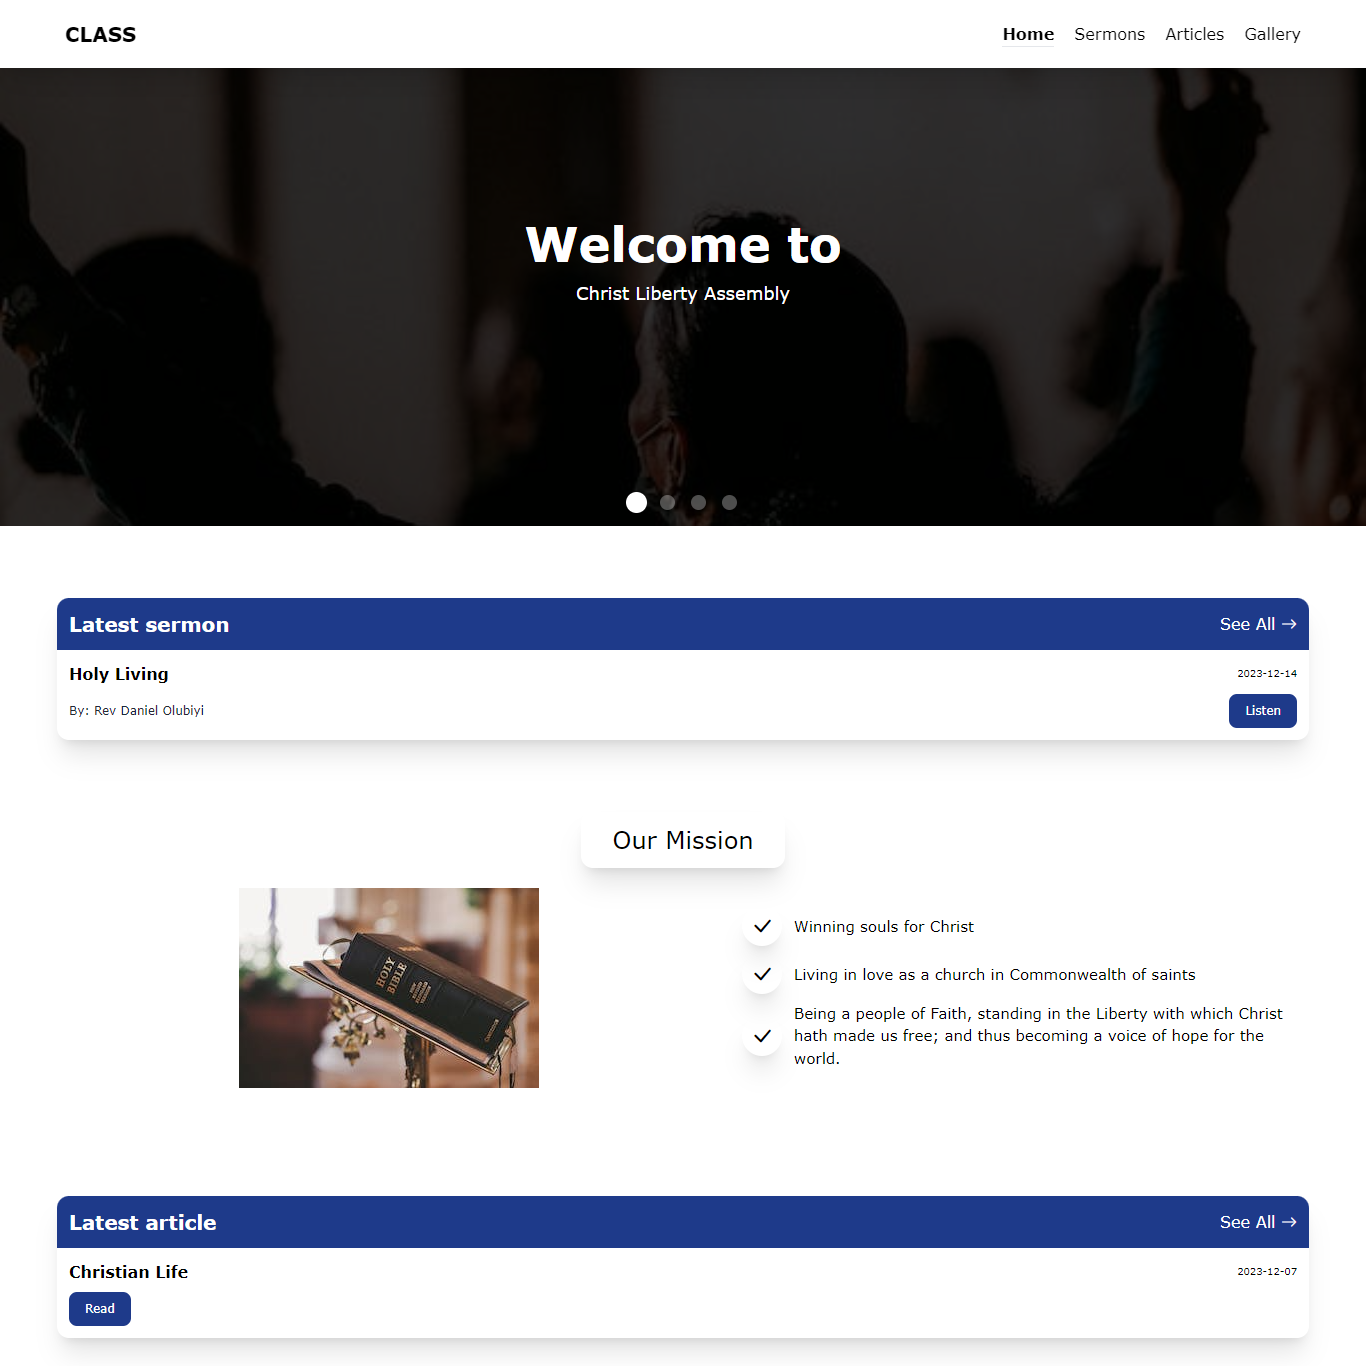
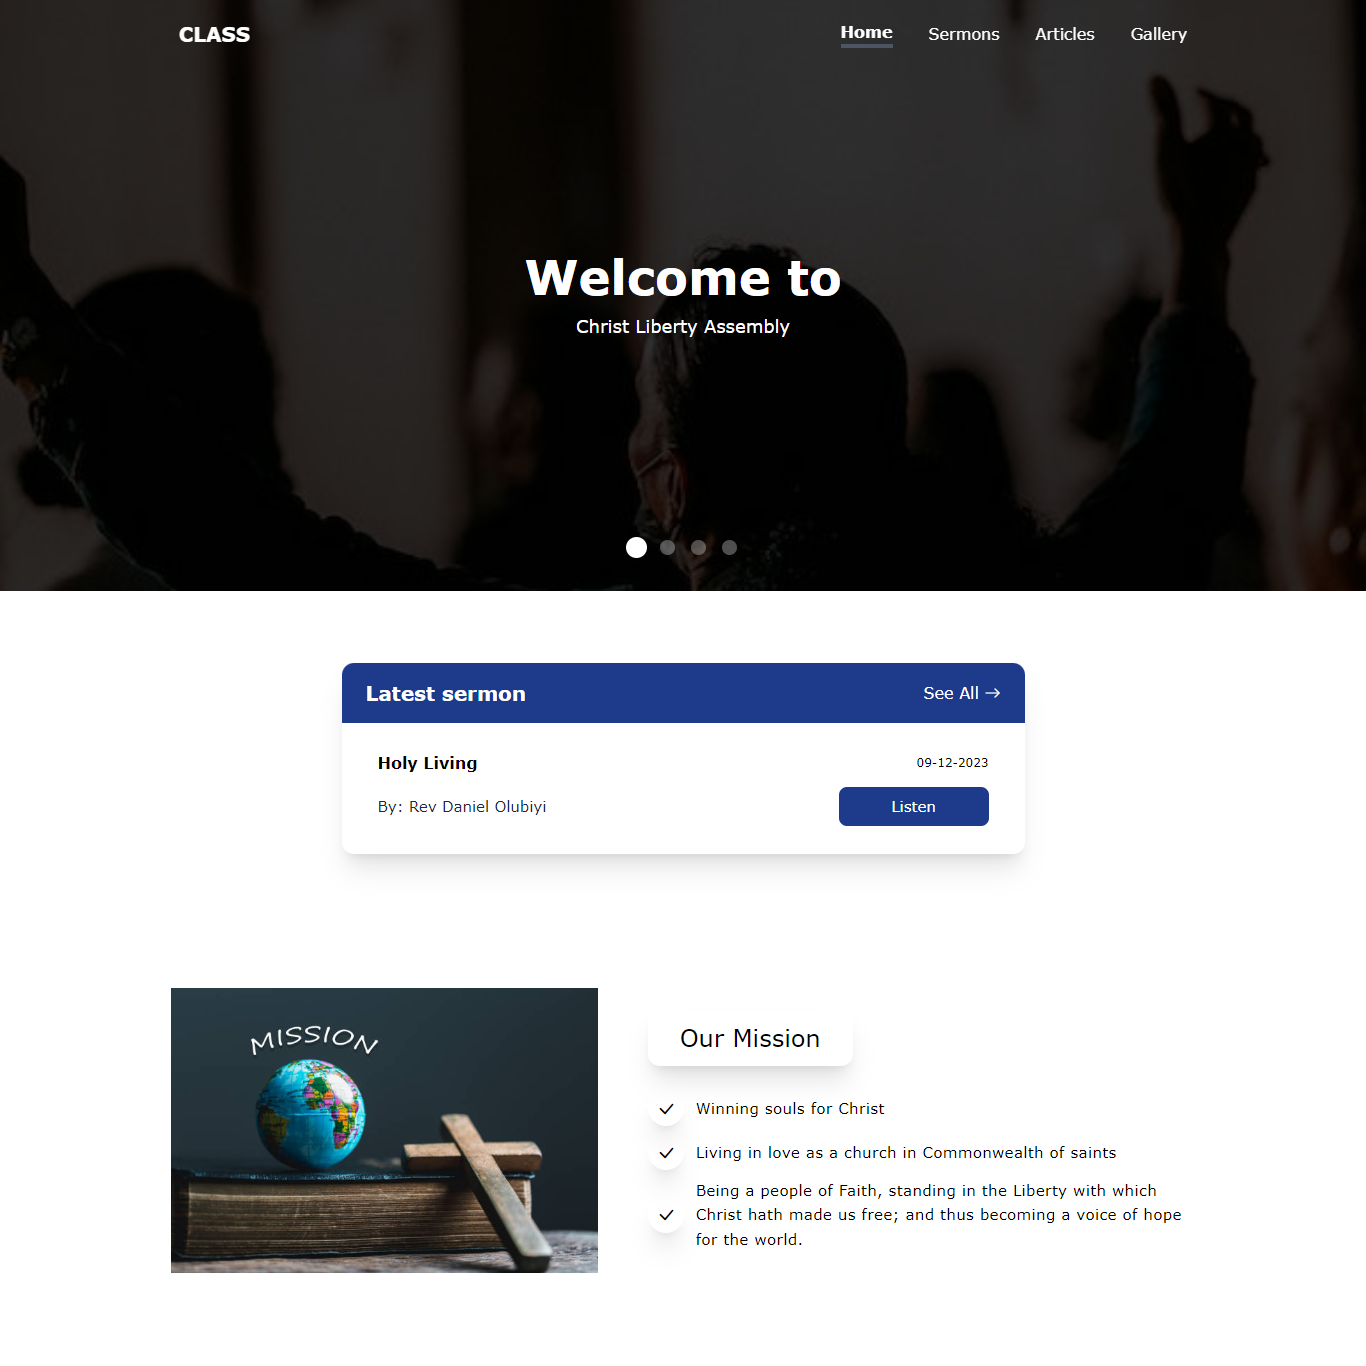
updated homepage hero and added projects to home page

diff --git a/src/pages/Home/Hero.tsx b/src/pages/Home/Hero.tsx
@@ -40,8 +40,8 @@ const Hero = () => {
 
 
     return(
-        <section className="relative center w-full  md:h-screen  overflow-hidden">
-            <div className="absolute hidden lg:flex w-full justify-between items-center z-20">
+        <section className="relative center w-full lg:h-screen  overflow-hidden pt-[3vh] md:pt-[5ch] lg:pt-0">
+            <div className="absolute hidden lg:flex w-full justify-between items-center z-20 ">
 
                 <div className="bi bi-chevron-left text-5xl text-gray-300 cursor-pointer h-[250px] center rounded-full w-[100px] lg:w-[150px] p-6 rounded-r-3xl transition-all duration-1000 hover:bg-black hover:bg-opacity-20"  onClick={() => setCurrentSlide(currentSlide == 0 ? HeroContent.length - 1 : prev => prev - 1)}></div>
 
@@ -56,7 +56,7 @@ const Hero = () => {
                 <SmSlider currentSlide={currentSlide} sliderRef={sliderRef} handleTouchEnd={handleTouchEnd} handleTouchStart={handleTouchStart}/>
 
             <div className="center absolute top-[85vh] md:top-[90vh] z-20">
-                <div className="center gap-3 bg-blue-900 border border-blue-900 bg-opacity-30 p-4 rounded-full px-9">
+                <div className="center gap-3 bg-blue-900 backdrop-blur-xl border border-blue-900 bg-opacity-30 p-4 rounded-full px-9">
                     {
                         HeroContent.map((i, j) => (
                             <p key={j} className={`${currentSlide == j ? 'h-4 lg:h-5 w-4 lg:w-5 bg-blue-900' : 'w-3 h-3 bg-white'} border border-blue-900 rounded-full transition-all duration-500 cursor-pointer`} onClick={() => setCurrentSlide(j)}>
@@ -145,7 +145,7 @@ const SmSlider:FC<SliderInterface> = ({currentSlide, sliderRef, handleTouchStart
             onTouchEnd={handleTouchEnd}
             ref={sliderRef}
         >
-            <div className="overflow-hidden w-full flex justify-start h-fit pt-[15vh]">
+            <div className="overflow-hidde n w-full flex justify-start h-fit pt-[15vh]">
 
                 <div className={`flex transition-all duration-1000`} style={{
                     width: HeroContent.length*100+'vw',
@@ -171,7 +171,7 @@ const SmSlider:FC<SliderInterface> = ({currentSlide, sliderRef, handleTouchStart
             
             
             
-            <div className="overflow-hidden w-full flex justify-end max-h-96 md:max-h-96 items-start rounded-3xl">
+            <div className="overflow-hidden w-[100vw] flex justify-end max-h-96 md:max-h-96 items-start rounded-3xl">
 
                 <div className={`flex flex-row-reverse transition-all duration-1000 h-fit`} style={{
                         width: HeroContent.length*100+'vw',
@@ -180,8 +180,10 @@ const SmSlider:FC<SliderInterface> = ({currentSlide, sliderRef, handleTouchStart
 
                     {
                         HeroContent.map((content, i) => (
-                            <div key={i} className="flex flex-col  justify-start items-start w-[100vw] gap-4 h-fit">
-                                <img src={content.img} alt={'Image for ' + content.header} className="w-full h-fit rounded-3xl "/>
+                            <div key={i} className="flex justify-center w-[100vw] overflow-hidden">
+                                <div key={i} className="center w-11/12 h-fit gap-4 overflow-hidden">
+                                    <img src={content.img} alt={'Image for ' + content.header} className="w-full h-full object-fit rounded-3xl"/>
+                                </div>
                             </div>
                         ))
                     }

diff --git a/src/pages/Home/SomeProjects.tsx b/src/pages/Home/SomeProjects.tsx
@@ -1,0 +1,87 @@
+import { FC, useEffect, useState } from 'react'
+import { PortfolioItems } from '../Portfolio/Portfolio'
+import { LazyLoadImage } from 'react-lazy-load-image-component'
+import { Parallax } from '../../assets/components/Parallax'
+import { Link } from 'react-router-dom'
+import { Button } from '../../assets/components/Button'
+
+const SomeProjects = () => {
+  return (
+    <section className="center flex-col py-[15vh] pt-[10vh]">
+        <div className="w-11/12 lg:w-10/12 xl:w-9/12 mb-[2vh]">
+            <Parallax id={"recentworks"} className="w-full flex flex-col">
+                <>
+                <h2 className="text-blue-600 text-4xl my-4 w-full">Recent projects</h2>
+                {/* <Link to="/works" className='btn bg-transparent hover:bg-secondary hover:border-blue-900 border-blue-900 w-fit'>VIEW MORE</Link> */}
+                </>
+            </Parallax>
+        </div>
+        <div className="flex flex-col w-11/12 lg:w-10/12 xl:w-9/12 lg:flex-row gap-[50px] lg:gap-4 overflow-hidden my-[3vh]">
+
+            
+            {
+                PortfolioItems.map((item, i) => (
+                    i < 3  &&
+                    <Item item={item}/>
+                ))
+            }
+        </div>        
+        <div className="w-11/12 lg:w-10/12 xl:w-9/12 mt-[5vh]">
+            <Parallax id={"recentworks"} className="w-full flex flex-col">
+            <>
+                <Link to="/works" className='w-fit'>
+                    <Button
+                        text='view more projects'
+                        icon='arrow-right'
+                    />
+                </Link>
+            </>
+            </Parallax>
+        </div>
+    </section>
+  )
+}
+
+
+const Item:FC<any> = ({item}) => {
+    const [ isPosMatch, setIsPosMatch ] = useState(false)
+
+    const handleScroll = () => {
+        const element = document.querySelector(`#${item.title.replaceAll(' ', '')}`)
+        if(element){
+            let pos = element.getBoundingClientRect()
+            if( pos.top < 300){
+                setIsPosMatch(true)
+            } else{
+                setIsPosMatch(false)
+            }
+
+        }
+      
+    }
+
+    useEffect(() =>{
+        document.addEventListener('scroll', handleScroll)
+        
+    }, [])
+
+    return(
+        <Parallax id={item.title.replaceAll(' ', '')} className='w-full'>
+            <Link to="/works" id={item.title.replaceAll(' ', '')} className="center overflow-hidden lg:h-[40vh] xl:h-[50vh] relative w-full  bg-secondary border border-blue-900 bg-opacity-40 rounded-2xl">
+                <div className={`transition-all duration-1000 ease-in-out center h-full m-[15%] ${isPosMatch ? "scale-125 hover:scale-100" : "hover:scale-125"}`}>
+                    <LazyLoadImage 
+                        src={item.img} 
+                        alt={item.title} 
+                        width={'100%'}
+                        className={`w -8/12 rounded-xl`}
+                        effect="blur"
+                        />
+                </div>
+
+            </Link>
+        </Parallax>
+    )
+
+}
+
+export default SomeProjects

diff --git a/src/assets/components/Sections/Navbar.tsx b/src/assets/components/Sections/Navbar.tsx
@@ -30,12 +30,13 @@ export const Navbar = () =>{
                         <img src={logo} alt="Paix Techdom Logo" className='w-9/12  md:w-7/12 lg:w-5/12'/>
                     </Link>
 
-                    <i className={`bi bi-${showNav ? 'x-lg' : 'list'} cursor-pointer lg:hidden text-2xl`} onClick={() => setShowNav(!showNav)}></i>
+                    <i className={`bi bi-${showNav ? 'x-lg' : 'list'} cursor-pointer lg:hidden text-2xl z-[100]`} onClick={() => setShowNav(!showNav)}></i>
 
-                    <nav className={`${showNav ? 'left-0' : '-left-[25vw] opacity-0 lg:opacity-100 lg:left-0'} transition-all duration-1000 absolute py-9 lg:py-0 bg-gradient-to-l from-secondary via-primary to-secondary lg:from-transparent w-full lg:w-fit top-[8vh]  lg:top-0 lg:relative flex flex-col lg:flex-row gap-9 lg:gap-7 xl:gap-9 items-center border-b border-blue-900 lg:border-b-0`}>
+                    <nav className={`${showNav ? 'left-0' : '-left-[100vw] opacity-0 lg:opacity-100 lg:left-0'} bg-opacity-80 backdrop-blur-2xl
+                        transition-all duration-1000 absolute py-9 lg:py-0 bg-secondary lg:bg-transparent w-full h-screen  lg:h-fit lg:w-fit top-0 pt-[15vh]  lg:pt-0 lg:relative flex flex-col lg:flex-row gap-9 lg:gap-7 xl:gap-9 items-center border-b border-blue-900 lg:border-b-0`}>
                         {
                             Navs.map((nav, i) => (
-                                <Link key={i} to={`/${nav.link}`} className={`flex w-11/12 lg:w-fit gap-2 items-center ${currentNav == i ? 'border-b-2 border-blue-900 font-bold text-blue-600' : 'text-white'} hover:text-blue-600 hover:border-b hover:border-blue-400`} onClick={() => {
+                                <Link key={i} to={`/${nav.link}`} className={`flex w-fit gap-2 items-center ${currentNav == i ? 'border-b-2 border-blue-900 font-bold text-blue-600' : 'text-white'} hover:text-blue-600 hover:border-b hover:border-blue-400`} onClick={() => {
                                     setCurrentNav(i)
                                     setShowNav(false)
                                     }}>
@@ -46,7 +47,7 @@ export const Navbar = () =>{
                                 </Link>
                             ))
                         }
-                        <div className="w-11/12 lg:w-fit">
+                        <div className="w-fit">
                             <Button className={'w-fit'} text={'Contact Us'} icon={'telephone-fill'}
                             func={() => {
                                 navigate('/Contact')

diff --git a/src/pages/Home/Numbers.tsx b/src/pages/Home/Numbers.tsx
@@ -10,10 +10,10 @@ export const Numbers = () => {
     return(
         
         <section className='flex justify-center w-full my-9 py-9'>
-            <div className={`flex md:grid md:grid-cols-2 items-center lg:flex w-11/12 lg:w-9/12 lg:flex-row justify-center flex-col gap -5`}>
+            <div className={`grid grid-cols-2 w-9/12 lg:w-5/12`}>
                 {
                     numbers.map((num, key) => (
-                        <No num={num} key={key} />
+                        <No num={num} key={key} i={key}/>
                     ))
                     }
             </div>
@@ -27,7 +27,7 @@ export const Numbers = () => {
 //     no: number,
 //     speed: number
 // }
-const No:FC<any> = ({num}) => {
+const No:FC<any> = ({num, i}) => {
     const [ newNo, setNewNo ] = useState(0)
 
     useEffect(() => {
@@ -42,16 +42,23 @@ const No:FC<any> = ({num}) => {
     }
 //    table issue with display 
     return(
-        <div className={`center m-auto flex-col gap-2 shadow-lg transition-all duration-1000 hover:scale-90 p -9 relative h-[16ch] w-[16ch]`}>
+        <div className={`center m-auto flex-col gap-2 shadow-lg transition-all duration-1000 p -9 relative h-[16ch] w-[16ch] border border-blue-900
+            ${
+                i == 0 ? "border-b-0 border-r-0 rounded-t-3xl" :
+                i == 1 ? "border-l-0 border-b-0 rounded-t-3xl" :
+                i == 2 ? "border-l-0 border-b-0 rounded-b-3xl" :
+                i == 3 ? "border-b-0 border-r-0 rounded-b-3xl" : ""
+            }
+        `}>
             
-            <div className="w-full h-full rounded-tl-[10ch] rounded-br-[10ch] border border-blue-900 absolute top-0 left-0 rotate-[45deg]"></div>
+            {/* <div className="w-full h-full rounded-tl-[10ch] rounded-br-[10ch] border border-blue-900 absolute top-0 left-0 rotate-[45deg]"></div> */}
             
             <Parallax id={num.title}>
                 <>
                 <p className='text-3xl text-blue-400 text-center'>{newNo}+</p>
                 <div className='flex items-center text-gray-300 gap-2 my-2 text-sm'>
                     <i className={`bi bi-${num.img} text-2xl`}></i>
-                    <p >{num.title}</p>
+                    <p>{num.title}</p>
 
                 </div>
                 </>

diff --git a/src/pages/Portfolio/Portfolio.tsx b/src/pages/Portfolio/Portfolio.tsx
@@ -16,7 +16,7 @@ import img from "../../assets/img/portfolio.jpg"
 import { Parallax } from "../../assets/components/Parallax"
 import { BsLink45Deg } from "react-icons/bs"
 
-const PortfolioItems = [
+export const PortfolioItems = [
     {
         title: 'Onidson Travels and Logistics Ltd',
         desc: ["Designed a user-friendly website with multiple pages dedicated to their services, aviation courses they offer and a detailed contact section", "Our work ensured a strong online presence and improved accessibility for their clients"],
@@ -30,16 +30,16 @@ const PortfolioItems = [
         img: saculietImg
     },
     {
-        title: 'Christ Liberty Assembly',
-        desc: ["Developed a professional church website featuring a landing page, gallery, page for sermons and articles."],
-        link: 'https://christlibertyassembly.org.ng',
-        img: classImg
-    },
-    {
         title: 'Macmay Group',
         link: 'https://macmaygroup.netlify.app',
         desc: ["We created a comprehensive multi-page website to shpwcase their diverse services in investments, agriculture, and food processing.", "The site provides detailed insights into their operations and enhances their online presence."],
         img: macmayImg
+    },
+    {
+        title: 'Christ Liberty Assembly',
+        desc: ["Developed a professional church website featuring a landing page, gallery, page for sermons and articles."],
+        link: 'https://christlibertyassembly.org.ng',
+        img: classImg
     },
     {
         title: 'Albert Interiors',
@@ -128,7 +128,7 @@ const APortfolio:FC<any> = ({portfolio, i}) => {
                     placeholderSrc={portfolio.title} 
                     className="w-full h-full lg:object-fit"
                     effect="blur"
-                    />
+                />
                 </>
             </Parallax>
 

diff --git a/src/assets/Constants.ts b/src/assets/Constants.ts
@@ -42,27 +42,27 @@ const Navs = [
 
 const HeroContent = [
     {
-        header: 'Your business can still soar higher',
+        header: 'We build custom websites for your business needs and ideas.',
         text: [
-            'Unleash the potential of your business with our tailored web services. Start building your online empire today with our free consultation!', 
+            'Are you in need of a website for your organization, business or idea?', 
         ],
         color: 'text-blue-400',
         img: manoncliff
     },
     {   
-        header: 'Transform Your Ideas into Reality, Starting Today',
+        header: 'Take the next step to transform your ideas into reality today.',
         text: ['Take advantage of our free consultation to bring your visions to life. Your journey to success begins now!'],
         color: 'text-orange-400',
         img: bulb
     },
     {
-        header: 'You + Our Services = Limitless Possibilities',
-        text: ["Discover how our services can elevate your online presence. Let's explore new possibilities together, starting now"],
+        header: "Leverage unlimited possibilities through the digital space",
+        text: ["Discover how a unique website can elevate your lead generation and online awareness. Let's explore new possibilities together, starting now"],
         color: 'text-yellow-300',
         img: phone
     },
     {
-        header: 'Step into the Future: Your Online Transformation Awaits',
+        header: "We bring out the uniqueness of your business and ideas.",
         text: ['Experience the excitement of a new website crafted just for you. Start your journey towards success today with our free consultation!'],
         color: 'text-red-400',
         img: laptop

diff --git a/index.html b/index.html
@@ -9,7 +9,7 @@
     "/>
     
     <meta name="keywords" content="Web Development, Company, website, design, redesign, blog, portfolio, ecommerce, estore, programming, web maintenance, react, remote">
-    <title>Paix Techdom - Web Development Company</title>
+    <title>Paix Techdom - Website Development Company</title>
 
 
 
@@ -40,7 +40,21 @@
 
   </head>
   <body>
+
     <div id="root"></div>
     <script type="module" src="/src/main.tsx"></script>
+    <!--Start of Tawk.to Script-->
+  <script type="text/javascript">
+    var Tawk_API=Tawk_API||{}, Tawk_LoadStart=new Date();
+    (function(){
+    var s1=document.createElement("script"),s0=document.getElementsByTagName("script")[0];
+    s1.async=true;
+    s1.src='https://embed.tawk.to/66996de2becc2fed69274880/1i33lag8d';
+    s1.charset='UTF-8';
+    s1.setAttribute('crossorigin','*');
+    s0.parentNode.insertBefore(s1,s0);
+    })();
+    </script>
+    <!--End of Tawk.to Script-->
   </body>
 </html>

diff --git a/src/pages/Home/Home.tsx b/src/pages/Home/Home.tsx
@@ -9,6 +9,7 @@ import { Hero } from './Hero'
 import { GridSlider } from '../Components/GridSlider'
 import { Steps } from './Steps'
 import { Helmet } from "react-helmet-async"
+import SomeProjects from './SomeProjects'
 
 
 
@@ -23,7 +24,7 @@ const Home = () => {
         <>       
             <Helmet>
                 <title>
-                    Paix Techdom - Web Development Company
+                    Paix Techdom - Website Development Company
                 </title>
                 <link rel="icon" type="image/png" href={logo} />
             </Helmet>
@@ -41,11 +42,14 @@ const Home = () => {
                 iconText={'Start Now'} 
                 icon={'arrow-right'} 
                 navigateTo={'contact'}
-                />
+            />
         
+            <SomeProjects />
+            
             <GridSlider 
                 data={Gain}
-                />
+            />
+
 
             <Steps />
 

diff --git a/src/pages/Components/GridSlider.tsx b/src/pages/Components/GridSlider.tsx
@@ -16,7 +16,7 @@ return(
 
             {
                 data.map((d:any, i:number) => (
-                    <Parallax key={i} id={d.id} className='h-full w-full flex flex-col border border-blue-900 bg-secondary bg-opacity-30 p-5 md:p-9 rounded-xl gap-2 leading-relaxed tracking-wide' index={i}>
+                    <Parallax key={i} id={d.id} className='h-full w-full flex flex-col border border-blue-900 bg-secondary bg-opacity-30 p-9 rounded-xl gap-2 leading-relaxed tracking-wide' index={i}>
                         <>
                             <div className="flex relative w-fi center h-12 md:h-16 w-2/12 md:w-3/12 p-3 mb-3">
                                 <div className="absolute border border-blue-900 top-0  left-50 w-12 h-12 md:w-16 md:h-16 rotate-45 rounded-tl-[25px]  rounded-br-[25px]">

diff --git a/src/pages/Home/Steps.tsx b/src/pages/Home/Steps.tsx
@@ -65,7 +65,7 @@ export const Steps = () => {
                                             <div className={`flex flex-col w-full gap-3 ${
                                                 i == steps.length - 1 ? 'mb-[2vh]' : 
                                                 i == steps.length - 2 ? 'mb-[5vh] lg:mb-[2vh]' : 
-                                                'mb-[5vh] lg:mb-[10vh] xl:mb-[12vh]'} rounded-2xl border border-blue-900 p-4 py-7`}>
+                                                'mb-[5vh] lg:mb-[10vh] xl:mb-[12vh]'} rounded-2xl border border-blue-900 p-9`}>
 
                                                 <h3 className="text-blue-600 text-xl">
                                                     {step.title}

diff --git a/src/AppRouter.tsx b/src/AppRouter.tsx
@@ -72,7 +72,7 @@ export const AppRouter = () => {
                         <Navbar />
                         <HeroBg />
                         
-                        <IconButton icon={'arrow-up'} className={`fixed bottom-[5%] z-50 scale-125  transition-all duration-1000 ${scrolledDown ? 'right-[5%]' : '-right-[50%]'}`} func={() => {
+                        <IconButton icon={'arrow-up'} className={`fixed bottom-[15%] z-50 scale-125  transition-all duration-1000 lg:hidden ${scrolledDown ? 'right-[5%]' : '-right-[50%]'}`} func={() => {
                         scrollTo({
                                 top: 0,
                                 behavior: 'smooth'

diff --git a/src/assets/components/Button.tsx b/src/assets/components/Button.tsx
@@ -19,7 +19,7 @@ const Button:FC<ButtonInterface> = ({text, className, icon, func, showIcon, setS
     }, [showIcon])
 
     return(
-        <div className={`cursor-pointer text-sm p-1 center transition-all duration-500 px-4 border border-blue-900 h-fit rounded-xl rounded-tr-[20px] ${className} flex gap-3 overflow-hidden bg-[rgba(0,0,35)]`} 
+        <div className={`cursor-pointer text-sm p-1 center transition-all duration-500 px-4 border border-blue-900 h-fit rounded-xl btn ${className} flex gap-3 overflow-hidden bg-primary hover:bg-secondary hover:border-blue-900`} 
             onClick={() => {
                 if(func){
                     func()
